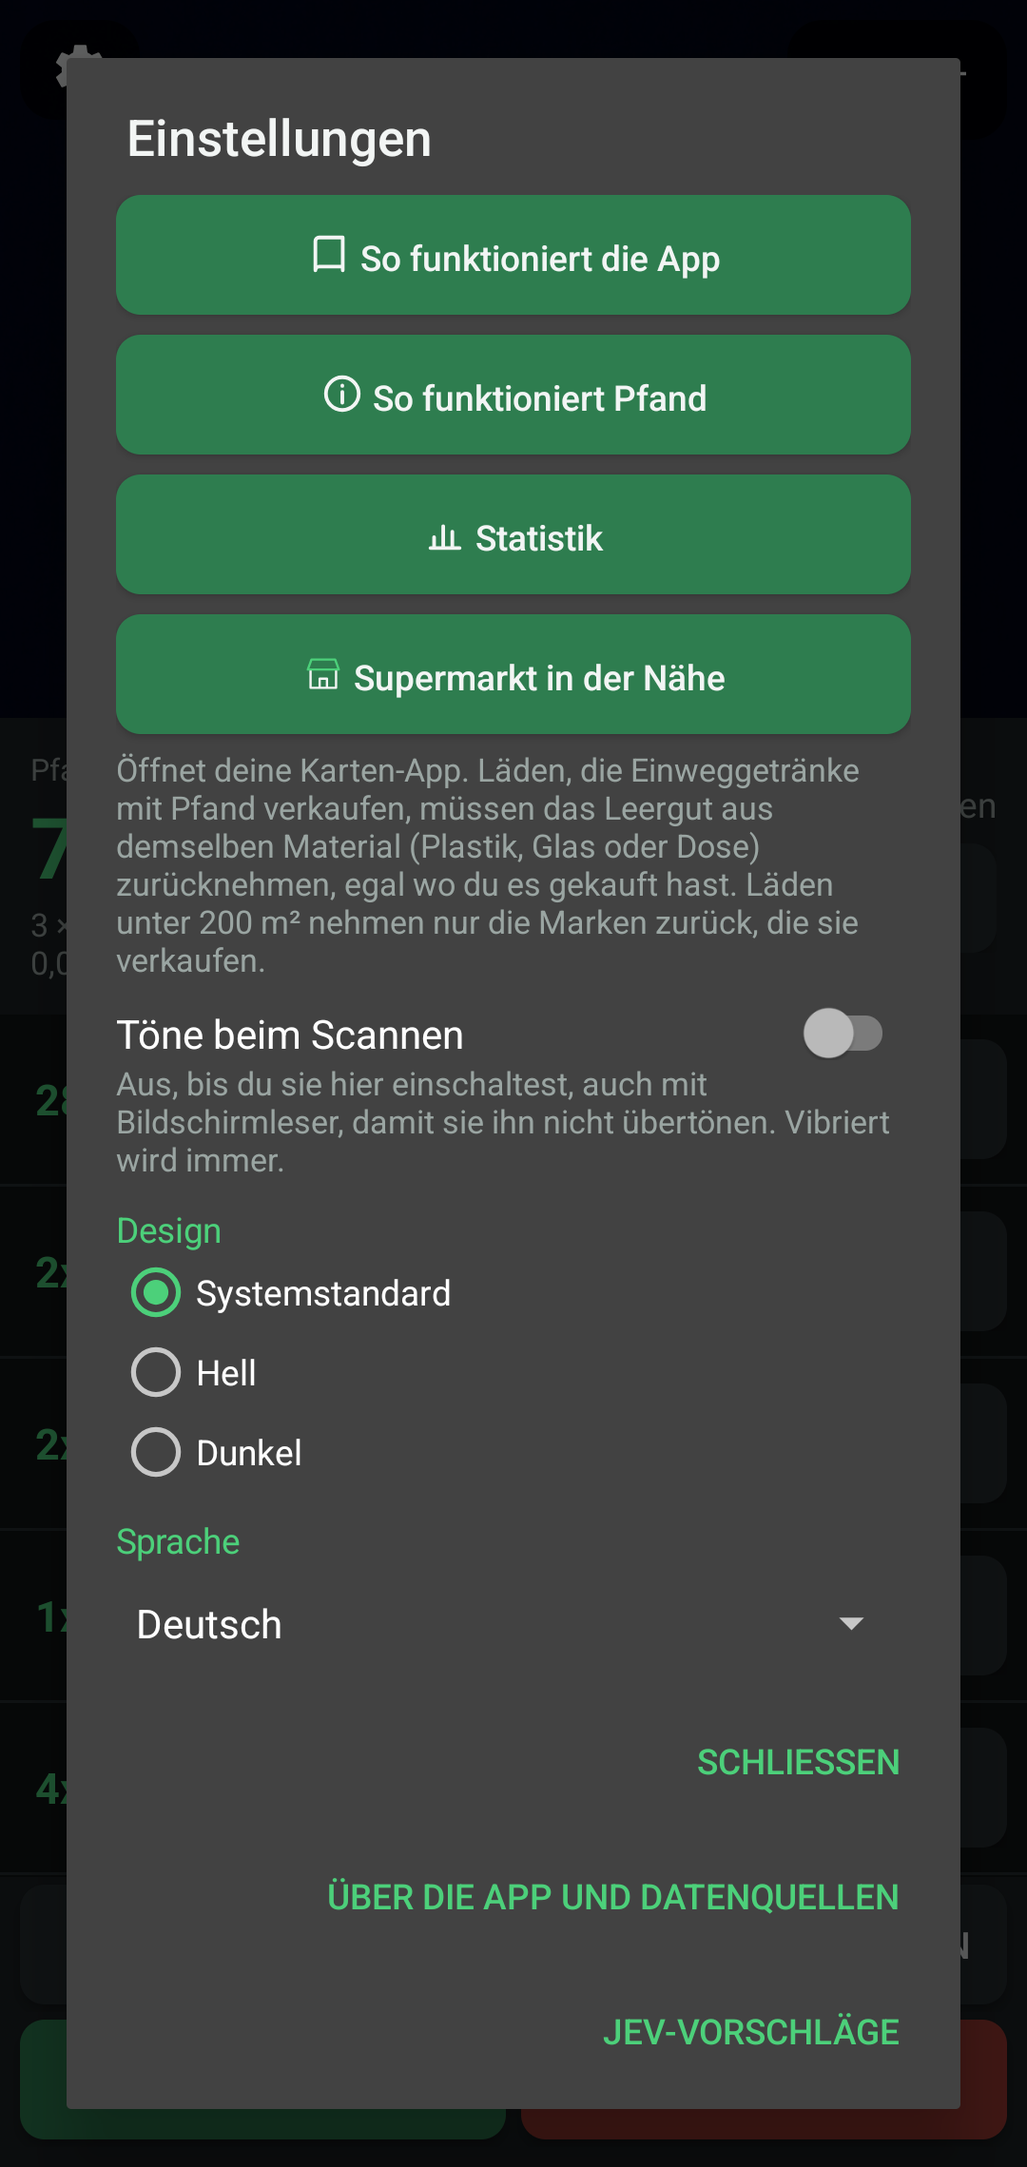
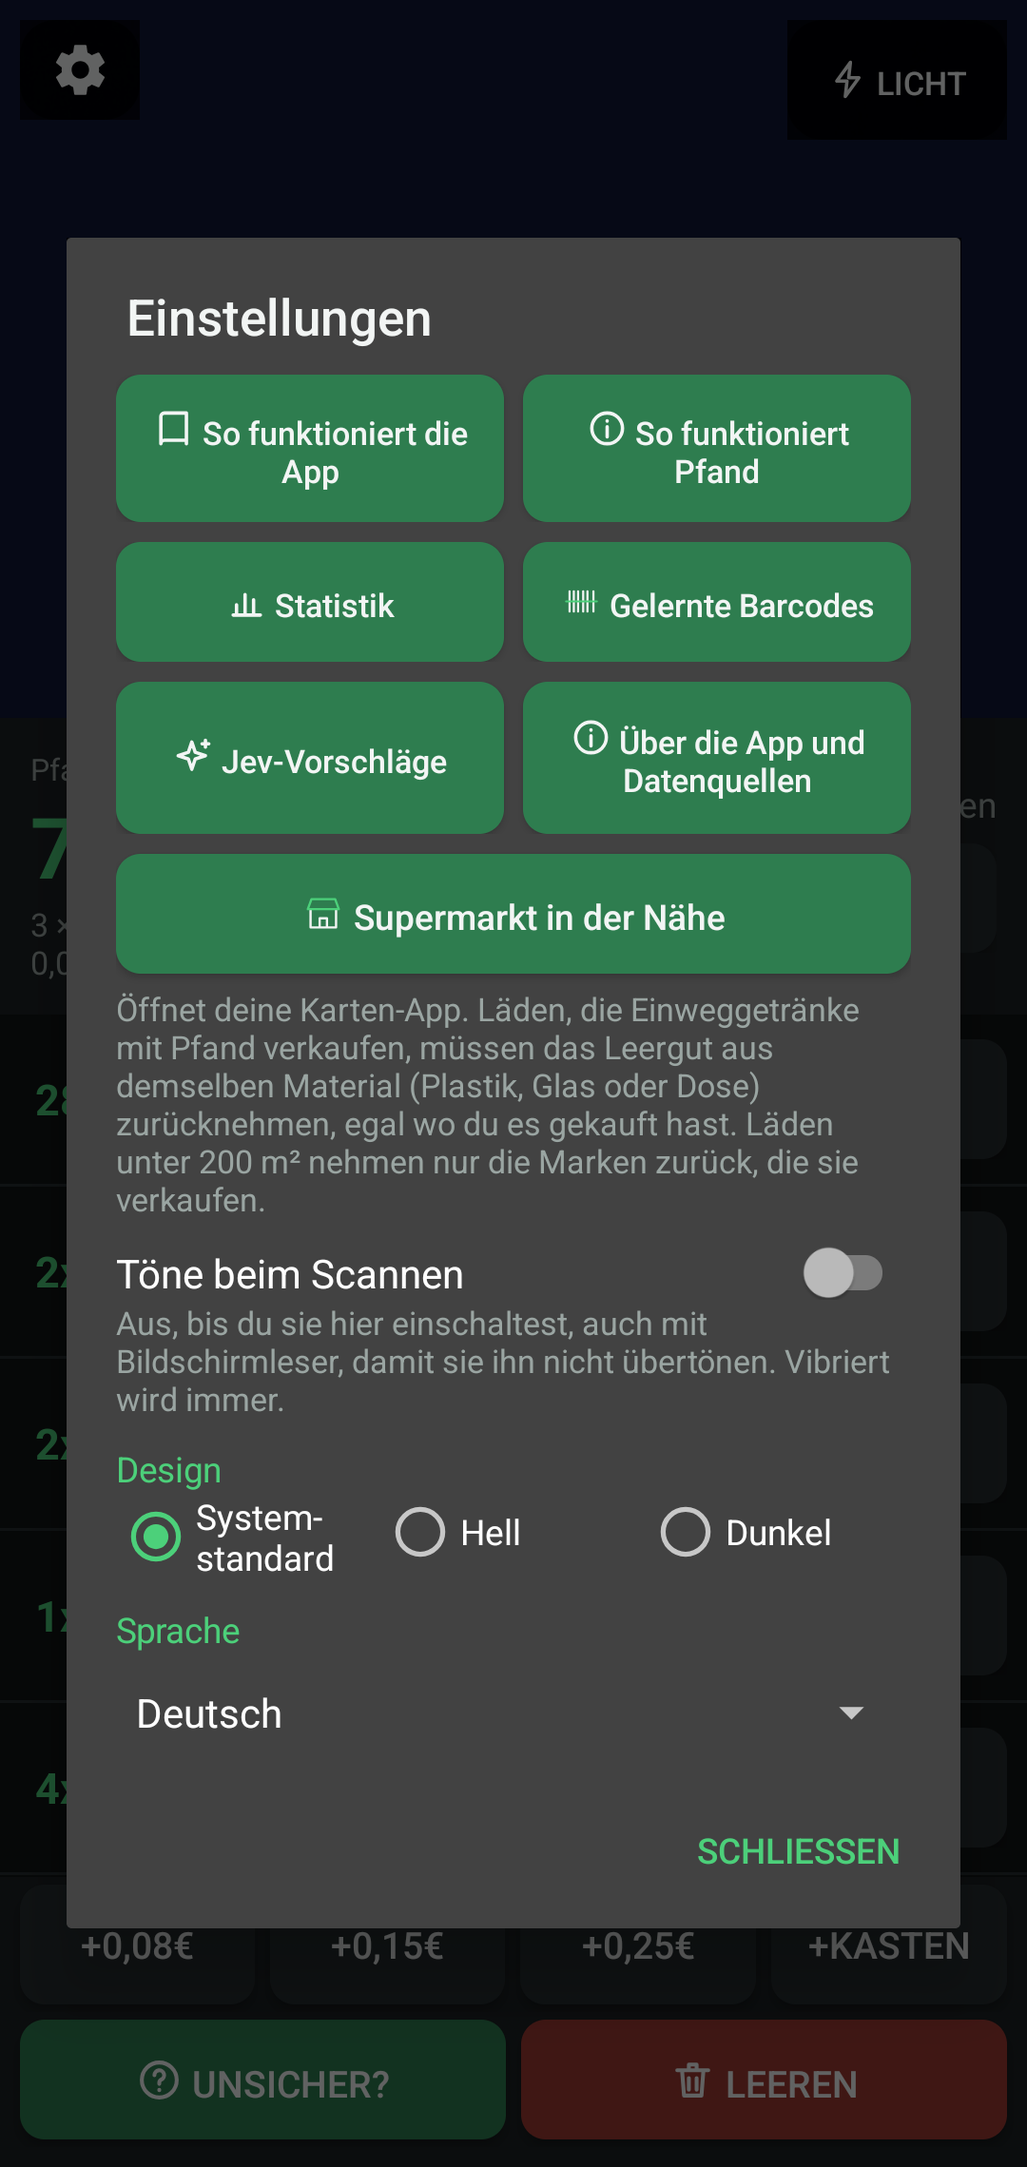
Texts no longer cut off at large font; new settings screenshots; store description: more than 2,500 barcodes
Layout check covers every window in all 11 languages at font scale 1.0 and 1.3 (0 problems).
French "Oublier les codes appris". Store descriptions aligned in all 11 languages.

diff --git a/src/app/pfandcounter/MainActivity.java b/src/app/pfandcounter/MainActivity.java
@@ -231,6 +231,12 @@ public class MainActivity extends Activity implements BarcodeScanner.Listener {
             intent.removeExtra("layout_check");
             LayoutCheck.run(this, LANGUAGES);
         }
+        // adb shell am start -n … --ez page_check true: every window opened in every language.
+        if (intent.getBooleanExtra("page_check", false)) {
+            intent.removeExtra("page_check");
+            LocaleList was = getSystemService(LocaleManager.class).getApplicationLocales();
+            pageCheckNext(0, 0, was.toLanguageTags());
+        }
         // adb shell am start -n … --ez camera_problem true: the notice must go once frames arrive.
         if (intent.getBooleanExtra("camera_problem", false)) {
             intent.removeExtra("camera_problem");
@@ -249,6 +255,13 @@ public class MainActivity extends Activity implements BarcodeScanner.Listener {
 
     @Override protected void onResume() {
         super.onResume();
+        if (pageCheck != null) {
+            listView.postDelayed(new Runnable() {
+                @Override public void run() {
+                    pageCheckRun();
+                }
+            }, 1000);
+        }
         if (checkSelfPermission(Manifest.permission.CAMERA) == PackageManager.PERMISSION_GRANTED) {
             scanner.start();
             firstStartNotesLater();
@@ -1154,22 +1167,13 @@ public class MainActivity extends Activity implements BarcodeScanner.Listener {
         wrap.addView(soundNote);
 
         wrap.addView(heading(R.string.settings_theme));
-        final RadioGroup themes = new RadioGroup(this);
-        themes.setOrientation(LinearLayout.HORIZONTAL); // one row instead of three
-        int[] themeNames = {R.string.theme_system, R.string.theme_light, R.string.theme_dark};
         int themeNow = 0;
         try {
             themeNow = Integer.parseInt(String.valueOf(store.read(THEME_FILE)).trim());
         } catch (NumberFormatException ignored) {
             // no choice yet: the system's
         }
-        for (int i = 0; i < themeNames.length; i++) {
-            RadioButton b = new RadioButton(this);
-            b.setId(1000 + i);
-            b.setText(themeNames[i]);
-            themes.addView(b, new RadioGroup.LayoutParams(0, ViewGroup.LayoutParams.WRAP_CONTENT, 1));
-        }
-        themes.check(1000 + (themeNow >= 0 && themeNow < THEME_MODES.length ? themeNow : 0));
+        final RadioGroup themes = themeRow(this, themeNow >= 0 && themeNow < THEME_MODES.length ? themeNow : 0);
         wrap.addView(themes);
 
         wrap.addView(heading(R.string.settings_language));
@@ -1790,7 +1794,114 @@ public class MainActivity extends Activity implements BarcodeScanner.Listener {
      * button handler, the closing window keeps the touch input and the new one looks frozen.
      */
     private void openLater(Runnable open) {
+        if (pageCheck != null) return; // the page check opens every window itself
         listView.postDelayed(open, 150);
+    }
+
+    // --- page check ----------------------------------------------------------
+
+    /**
+     * The windows LayoutCheck cannot build on its own, measured as the app really shows them:
+     * each one opened, its texts asked whether they fit (LayoutCheck.walk), closed again. One
+     * run per language and font size 1.0 and 1.3; between runs the screen is rebuilt, the
+     * progress waits in PAGE_CHECK_FILE ("step problems original-languages"). Nothing is counted
+     * or saved; at the end the app's language is what it was. Results: adb logcat -s PfandLayout
+     */
+    private static final String PAGE_CHECK_FILE = "pagecheck.txt";
+    private static final float[] PAGE_CHECK_SCALES = {1.0f, 1.3f};
+    /** The saved progress while a page check runs, else null. */
+    private String[] pageCheck;
+
+    @Override protected void attachBaseContext(Context base) {
+        String[] check = readPageCheck(base);
+        if (check != null) {
+            android.content.res.Configuration c = new android.content.res.Configuration();
+            c.fontScale = PAGE_CHECK_SCALES[Integer.parseInt(check[0]) % PAGE_CHECK_SCALES.length];
+            base = base.createConfigurationContext(c);
+        }
+        super.attachBaseContext(base);
+        pageCheck = check;
+    }
+
+    private static String[] readPageCheck(Context ctx) {
+        java.io.File f = new java.io.File(ctx.getFilesDir(), PAGE_CHECK_FILE);
+        if (!f.exists()) return null;
+        try {
+            String[] parts = new String(java.nio.file.Files.readAllBytes(f.toPath()), "UTF-8").trim().split(" ", 3);
+            return parts.length == 3 ? parts : new String[]{parts[0], parts[1], ""};
+        } catch (java.io.IOException | RuntimeException e) {
+            return null;
+        }
+    }
+
+    /** Sets language and font size for run {@code step} and rebuilds the screen; past the last, ends. */
+    private void pageCheckNext(int step, int problems, String original) {
+        LocaleManager locales = getSystemService(LocaleManager.class);
+        if (step >= LANGUAGES.length * PAGE_CHECK_SCALES.length) {
+            store.delete(PAGE_CHECK_FILE);
+            pageCheck = null;
+            android.util.Log.i(LayoutCheck.TAG, "page check done: " + problems + " problem(s) in " + LANGUAGES.length
+                    + " languages at font scale 1.0 and 1.3");
+            // "" is the phone's own language; forLanguageTags("") would pick a language of its own.
+            LocaleList back = original.isEmpty() ? LocaleList.getEmptyLocaleList() : LocaleList.forLanguageTags(original);
+            // A new language rebuilds the screen by itself; calling recreate() as well raced it and
+            // the old language stayed on screen.
+            if (!back.equals(locales.getApplicationLocales())) locales.setApplicationLocales(back);
+            else recreate();
+            return;
+        }
+        store.write(PAGE_CHECK_FILE, step + " " + problems + " " + original);
+        LocaleList want = LocaleList.forLanguageTags(LANGUAGES[step / PAGE_CHECK_SCALES.length]);
+        if (!want.equals(locales.getApplicationLocales())) locales.setApplicationLocales(want);
+        else recreate(); // same language, other font size
+    }
+
+    private void pageCheckRun() {
+        if (pageCheck == null) return;
+        final int step = Integer.parseInt(pageCheck[0]);
+        final int[] problems = {Integer.parseInt(pageCheck[1])};
+        final String original = pageCheck[2];
+        final String where = LANGUAGES[step / PAGE_CHECK_SCALES.length] + " x"
+                + PAGE_CHECK_SCALES[step % PAGE_CHECK_SCALES.length] + " ";
+        final String[] names = {"disclaimer", "howto", "pfand", "settings", "stats", "learned", "jev",
+                "about", "licenses", "privacy", "guide", "crates"};
+        final Runnable[] pages = {
+                new Runnable() { @Override public void run() { showDisclaimer(); } },
+                new Runnable() { @Override public void run() { showHowTo(); } },
+                new Runnable() { @Override public void run() { showPfand(); } },
+                new Runnable() { @Override public void run() { showSettings(); } },
+                new Runnable() { @Override public void run() { showStats(); } },
+                new Runnable() { @Override public void run() { showLearned(); } },
+                new Runnable() { @Override public void run() { showJevSettings(); } },
+                new Runnable() { @Override public void run() { showAbout(); } },
+                new Runnable() { @Override public void run() { showLicenses(); } },
+                new Runnable() { @Override public void run() { showPrivacy(); } },
+                new Runnable() { @Override public void run() { guideByHand(); } },
+                new Runnable() { @Override public void run() { showCrates(); } },
+        };
+        final int[] at = {0};
+        final Runnable[] next = {null};
+        next[0] = new Runnable() {
+            @Override public void run() {
+                if (pageCheck == null) return;
+                if (openDialog != null) {
+                    AlertDialog shown = openDialog;
+                    problems[0] += LayoutCheck.walk(shown.getWindow().getDecorView(), where + names[at[0] - 1]);
+                    shown.dismiss();
+                    openDialog = null;
+                } else if (at[0] > 0) {
+                    android.util.Log.w(LayoutCheck.TAG, where + names[at[0] - 1] + ": window did not open");
+                    problems[0]++;
+                }
+                if (at[0] == pages.length) {
+                    pageCheckNext(step + 1, problems[0], original);
+                    return;
+                }
+                pages[at[0]++].run();
+                listView.postDelayed(next[0], 700);
+            }
+        };
+        next[0].run();
     }
 
     private void showNoDeposit(final String code, String name) {
@@ -2399,20 +2510,59 @@ public class MainActivity extends Activity implements BarcodeScanner.Listener {
     /** Marks a half-width button: its label may take two lines (LayoutCheck allows that). */
     static final String TILE = "tile";
 
+    /** The three design choices in one row; the chosen one (0 system, 1 light, 2 dark) is ticked. */
+    static RadioGroup themeRow(Context ctx, int now) {
+        RadioGroup themes = new RadioGroup(ctx);
+        themes.setOrientation(LinearLayout.HORIZONTAL); // one row instead of three
+        // Aligned by baseline, a label that wraps pushed its button down and the row cut off its second line.
+        themes.setBaselineAligned(false);
+        int[] themeNames = {R.string.theme_system, R.string.theme_light, R.string.theme_dark};
+        for (int i = 0; i < themeNames.length; i++) {
+            RadioButton b = new RadioButton(ctx);
+            b.setId(1000 + i);
+            b.setText(themeNames[i]);
+            // A long word ("Systemstandard") is split at a syllable with a hyphen, not anywhere.
+            b.setHyphenationFrequency(android.text.Layout.HYPHENATION_FREQUENCY_FULL);
+            themes.addView(b, new RadioGroup.LayoutParams(0, ViewGroup.LayoutParams.WRAP_CONTENT, 1));
+        }
+        themes.check(1000 + now);
+        return themes;
+    }
+
     /** Two buttons side by side, equally wide and equally tall. */
     static LinearLayout pair(Context ctx, Button a, Button b) {
-        LinearLayout row = new LinearLayout(ctx);
+        // Both as tall as the taller one. MATCH_PARENT did that too, but a label that shrinks to
+        // fit (auto-size) came out a few pixels taller than the row and lost its bottom edge.
+        LinearLayout row = new LinearLayout(ctx) {
+            @Override protected void onMeasure(int widthSpec, int heightSpec) {
+                super.onMeasure(widthSpec, heightSpec);
+                int tallest = 0;
+                for (int i = 0; i < getChildCount(); i++) tallest = Math.max(tallest, getChildAt(i).getMeasuredHeight());
+                for (int i = 0; i < getChildCount(); i++) {
+                    View c = getChildAt(i);
+                    c.measure(MeasureSpec.makeMeasureSpec(c.getMeasuredWidth(), MeasureSpec.EXACTLY),
+                            MeasureSpec.makeMeasureSpec(tallest, MeasureSpec.EXACTLY));
+                }
+                setMeasuredDimension(getMeasuredWidth(), tallest + getPaddingTop() + getPaddingBottom());
+            }
+        };
         row.setOrientation(LinearLayout.HORIZONTAL);
+        row.setBaselineAligned(false);
         int gap = (int) (8 * ctx.getResources().getDisplayMetrics().density);
-        LinearLayout.LayoutParams la = new LinearLayout.LayoutParams(0, ViewGroup.LayoutParams.MATCH_PARENT, 1);
+        LinearLayout.LayoutParams la = new LinearLayout.LayoutParams(0, ViewGroup.LayoutParams.WRAP_CONTENT, 1);
         la.setMarginEnd(gap / 2);
-        LinearLayout.LayoutParams lb = new LinearLayout.LayoutParams(0, ViewGroup.LayoutParams.MATCH_PARENT, 1);
+        LinearLayout.LayoutParams lb = new LinearLayout.LayoutParams(0, ViewGroup.LayoutParams.WRAP_CONTENT, 1);
         lb.setMarginStart(gap / 2);
         // A little smaller and with less side padding, so long labels (French, Russian at large
         // font) stay within two lines.
         for (Button t : new Button[]{a, b}) {
             t.setTag(TILE);
             t.setTextSize(android.util.TypedValue.COMPLEX_UNIT_SP, 13);
+            // At a large font size long labels shrink to stay within two lines, and a long word
+            // is split at a syllable with a hyphen.
+            t.setMaxLines(2);
+            t.setHyphenationFrequency(android.text.Layout.HYPHENATION_FREQUENCY_FULL);
+            t.setAutoSizeTextTypeUniformWithConfiguration(10, 13, 1, android.util.TypedValue.COMPLEX_UNIT_SP);
             t.setPadding(gap, t.getPaddingTop(), gap, t.getPaddingBottom());
             // The picture was sized for the old letters (withIcon); shrink it along.
             if (t.getText() instanceof android.text.Spanned) {

diff --git a/src/app/pfandcounter/LayoutCheck.java b/src/app/pfandcounter/LayoutCheck.java
@@ -47,7 +47,15 @@ class LayoutCheck {
                 problems += measure(crates(ctx, 1), inDialog, where + " crates-own");
                 problems += measure(crates(ctx, 2), inDialog, where + " crates-help");
                 problems += measure(stats(ctx), inDialog, where + " stats");
-                problems += measure(sheetButtons(ctx), inDialog, where + " buttons");
+                // Inside the page's side padding, as in Settings and About.
+                problems += measure(sheetButtons(ctx), inDialog - (int) (40 * density), where + " buttons");
+                // Settings: the design choices in one row, inside the page's side padding.
+                problems += measure(MainActivity.themeRow(ctx, 0), inDialog - (int) (40 * density), where + " design");
+                // Every question and every answer of "Not sure?".
+                int n = 0;
+                for (DepositGuide.Step step : DepositGuide.steps()) {
+                    problems += measure(guide(ctx, step), inDialog, where + " guide-" + n++);
+                }
             }
         }
         Log.i(TAG, "layout check done: " + problems + " problem(s) in " + languages.length
@@ -68,6 +76,19 @@ class LayoutCheck {
         if (face == 0) sheet.showMain();
         else if (face == 1) sheet.showForm();
         else sheet.showHelp();
+        return host;
+    }
+
+    /** One step of "Not sure?" as the guide window shows it. Choosing does nothing here. */
+    private static View guide(Context ctx, DepositGuide.Step step) {
+        android.widget.LinearLayout host = new android.widget.LinearLayout(ctx);
+        host.setOrientation(android.widget.LinearLayout.VERTICAL);
+        int pad = (int) (20 * ctx.getResources().getDisplayMetrics().density);
+        host.setPadding(pad, pad / 2, pad, pad / 2);
+        new DepositGuide(ctx, host, new DepositGuide.Listener() {
+            @Override public void onChosen(int cents) { }
+            @Override public void onLeave() { }
+        }).start(step);
         return host;
     }
 
@@ -162,12 +183,27 @@ class LayoutCheck {
         if (v instanceof TextView) ((TextView) v).setText(text);
     }
 
-    private static int walk(View v, String where) {
+    /** Also used on the app's real windows (MainActivity's page check). */
+    static int walk(View v, String where) {
         int n = 0;
         if (v.getVisibility() != View.VISIBLE) return 0;
         if (v instanceof ViewGroup) {
             ViewGroup g = (ViewGroup) v;
-            for (int i = 0; i < g.getChildCount(); i++) n += walk(g.getChildAt(i), where);
+            for (int i = 0; i < g.getChildCount(); i++) {
+                View child = g.getChildAt(i);
+                // A text pushed down (or up) out of its row is cut off by the row, even when the
+                // text itself fits its own box.
+                // A scrolling view holds more than it shows on purpose.
+                boolean scrolls = g instanceof android.widget.ScrollView || g instanceof android.widget.AbsListView;
+                if (child instanceof TextView && child.getVisibility() == View.VISIBLE && g.getClipChildren() && !scrolls
+                        && (child.getTop() < -1 || child.getBottom() > g.getHeight() + 1)) {
+                    Log.w(TAG, where + ": \"" + ((TextView) child).getText() + "\" sticks out of its row ("
+                            + child.getTop() + ".." + child.getBottom() + " in " + g.getHeight() + ")");
+                    n++;
+                    continue;
+                }
+                n += walk(child, where);
+            }
             return n;
         }
         if (!(v instanceof TextView)) return 0;
@@ -200,6 +236,17 @@ class LayoutCheck {
         // A half-width button in Settings may take two lines, not three.
         if (MainActivity.TILE.equals(t.getTag())) meant = 2;
         if (issue == null && t instanceof Button && !row && l.getLineCount() > meant) issue = "breaks into " + l.getLineCount() + " lines";
+        // A line that ends inside a word without a hyphen reads as two words ("Systemstan / dard").
+        // With hyphenation on, the platform draws a hyphen at such a break.
+        CharSequence chars = t.getText();
+        boolean hyphens = t.getHyphenationFrequency() != Layout.HYPHENATION_FREQUENCY_NONE;
+        for (int i = 0; issue == null && !hyphens && i < l.getLineCount() - 1; i++) {
+            int end = l.getLineEnd(i);
+            if (end > 0 && end < chars.length() && Character.isLetter(chars.charAt(end - 1))
+                    && Character.isLetter(chars.charAt(end))) {
+                issue = "breaks inside a word";
+            }
+        }
         if (issue == null && t.getHeight() < l.getHeight() + t.getTotalPaddingTop() + t.getTotalPaddingBottom() - 1) {
             issue = "taller than its box";
         }

diff --git a/src/app/pfandcounter/DepositGuide.java b/src/app/pfandcounter/DepositGuide.java
@@ -11,7 +11,9 @@ import android.widget.LinearLayout;
 import android.widget.TextView;
 
 import java.util.ArrayDeque;
+import java.util.ArrayList;
 import java.util.Deque;
+import java.util.List;
 
 /**
  * "Help me decide": walks through the German deposit rules one picture question at a time,
@@ -100,6 +102,21 @@ final class DepositGuide {
                 new Option(R.drawable.ic_g_glass, R.string.g_o_glass, R.string.g_d_glass, glass),
                 new Option(R.drawable.ic_g_jar, R.string.g_o_jar, R.string.g_d_jar, jar),
                 new Option(R.drawable.ic_g_carton, R.string.g_o_carton, R.string.g_d_carton, carton));
+    }
+
+    /** Every step of the tree once, questions and answers (for LayoutCheck). */
+    static List<Step> steps() {
+        List<Step> all = new ArrayList<>();
+        Deque<Step> todo = new ArrayDeque<>();
+        todo.add(ROOT);
+        todo.add(JAR);
+        while (!todo.isEmpty()) {
+            Step s = todo.poll();
+            if (all.contains(s)) continue;
+            all.add(s);
+            if (s.options != null) for (Option o : s.options) todo.add(o.next);
+        }
+        return all;
     }
 
     private final Context context;

diff --git a/src/app/pfandcounter/CrateSheet.java b/src/app/pfandcounter/CrateSheet.java
@@ -209,6 +209,9 @@ final class CrateSheet {
 
         Button add = button(R.drawable.btn_bg);
         add.setText(R.string.c_own_add);
+        // One line in every language: long words shrink a little instead of wrapping.
+        add.setMaxLines(1);
+        add.setAutoSizeTextTypeUniformWithConfiguration(9, 15, 1, android.util.TypedValue.COMPLEX_UNIT_SP);
         add.setOnClickListener(new View.OnClickListener() {
             @Override public void onClick(View v) {
                 showForm();
@@ -475,6 +478,8 @@ final class CrateSheet {
     private LinearLayout segments(String[] names, int picked, final Picked listener) {
         final LinearLayout row = new LinearLayout(context);
         row.setOrientation(LinearLayout.HORIZONTAL);
+        // Shrunk words sit lower on their baseline; aligned by it, a button slid out of the row.
+        row.setBaselineAligned(false);
         for (int i = 0; i < names.length; i++) {
             final int index = i;
             Button b = new Button(context);
